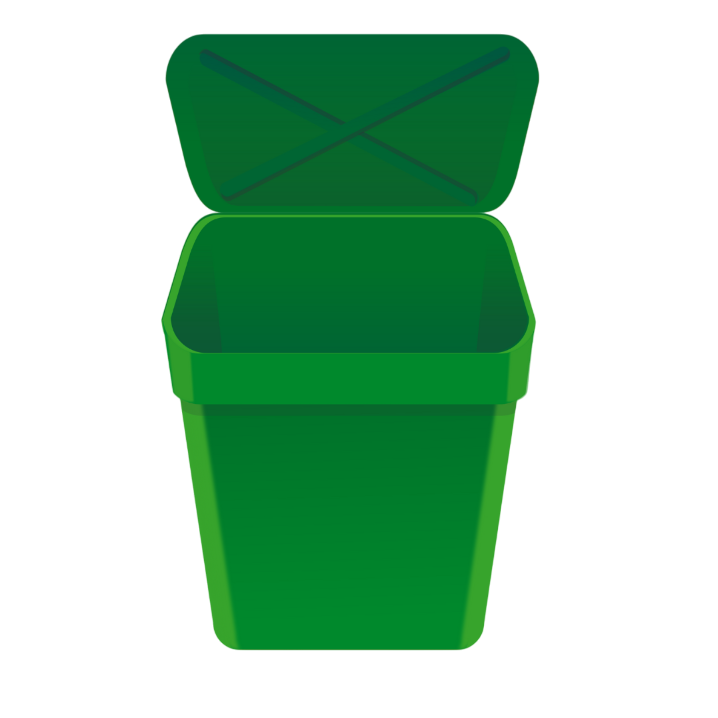
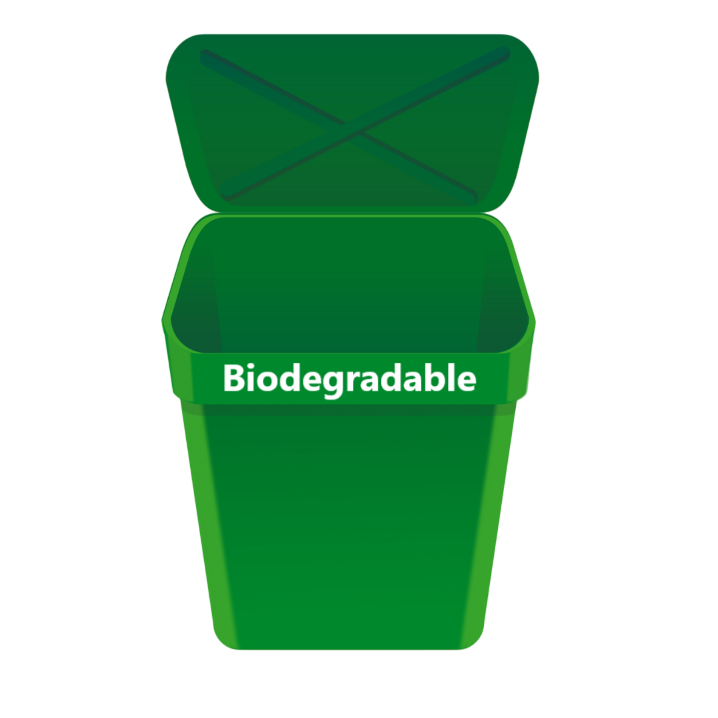
Added bin labels directly to picture

Changed region(s): [[0.3064, 0.4903, 0.6741, 0.5515]]

diff --git a/playing.html b/playing.html
@@ -21,6 +21,7 @@
     <img src="pictures/Bins/NonBio-Photoroom.png" class="container non-bio-container" data-type="NON-BIO" ondrop="drop(event)" ondragover="allowDrop(event)" alt="NON-BIO">
     <img src="pictures/Bins/Haz-Photoroom.png" class="container haz-container" data-type="HAZ" ondrop="drop(event)" ondragover="allowDrop(event)" alt="HAZ">
 
+    
     <div class="score-container">Score: 0</div>
     <div class="miss-container">Missed: <span id="miss-count">0</span>/3</div>
     <div class="mismatch-container">Mismatches: <span id="mismatch-count">0</span>/3</div>
@@ -36,8 +37,3 @@
     <script src="assets/scripts/playing.js"></script>
 </body>
 </html>
-<div class="overlay-texts">
-    <p class="overlay-text1">Biodegradable</p>
-    <p class="overlay-text2">Non-Biodegradable</p>
-    <p class="overlay-text3">Hazardous</p>
-</div>
